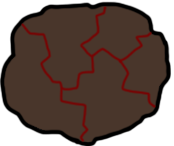
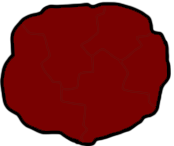
Unflickered boulders in level 1

diff --git a/Layers/BHJXLevel1Scene.m b/Layers/BHJXLevel1Scene.m
@@ -30,7 +30,6 @@ static NSString* playerCategoryName = @"player";
   
     NSArray *_playerFlickerFrames;
     NSArray *_backgroundFlickerFrames;
-    NSArray *_boulderFlickerFrames;
     NSMutableArray *_boulders;
     int _nextBoulder;
     double _nextBoulderSpawn;
@@ -51,9 +50,6 @@ static NSString* playerCategoryName = @"player";
         NSMutableArray *bgFlickerFrames = [NSMutableArray array];
         SKTextureAtlas *bgAnimatedAtlas = [SKTextureAtlas atlasNamed:@"Volcano"];
         
-        NSMutableArray *boulderFlickerFrames = [NSMutableArray array];
-        SKTextureAtlas *boulderAnimatedAtlas = [SKTextureAtlas atlasNamed:@"Boulder"];
-        
         NSMutableArray *playerFlickerFrames = [NSMutableArray array];
         SKTextureAtlas *playerAnimatedAtlas = [SKTextureAtlas atlasNamed:@"Player"];
         
@@ -64,13 +60,9 @@ static NSString* playerCategoryName = @"player";
             textureName = [NSString stringWithFormat:@"Player%d", i];
             temp = [playerAnimatedAtlas textureNamed:textureName];
             [playerFlickerFrames addObject:temp];
-            textureName = [NSString stringWithFormat:@"Boulder%d", i];
-            temp = [boulderAnimatedAtlas textureNamed:textureName];
-            [boulderFlickerFrames addObject:temp];
         }
         _playerFlickerFrames = playerFlickerFrames;
         _backgroundFlickerFrames = bgFlickerFrames;
-        _boulderFlickerFrames = boulderFlickerFrames;
         
         SKTexture *temp = _backgroundFlickerFrames[0];
         
@@ -112,11 +104,10 @@ static NSString* playerCategoryName = @"player";
         _player.physicsBody.dynamic = NO;
         
         //Setup the boulders
-        temp = _boulderFlickerFrames[0];
         
         _boulders = [[NSMutableArray alloc] initWithCapacity:kNumBoulders];
         for (int i = 0; i < kNumBoulders; ++i) {
-            SKSpriteNode *boulder = [SKSpriteNode spriteNodeWithTexture:temp];
+            SKSpriteNode *boulder = [SKSpriteNode spriteNodeWithImageNamed:@"Boulder1.png"];
             boulder.hidden = YES;
             [boulder setXScale:0.5];
             [boulder setYScale:0.5];
@@ -308,6 +299,8 @@ static NSString* playerCategoryName = @"player";
   [_backgroundAudioPlayer play];
 }
 
+
+// Make the 
 -(void)flickering
 {
     //This is our general runAction method to make our player flicker.
@@ -326,14 +319,6 @@ static NSString* playerCategoryName = @"player";
                                               timePerFrame:0.1f
                                                     resize:NO
                                                    restore:YES]] withKey:@"flickeringInPlaceBackground"];
-    
-    for (int i=0; i<kNumBoulders; i++) {
-        [_boulders[i] runAction:[SKAction repeatActionForever:
-                                 [SKAction animateWithTextures:_boulderFlickerFrames
-                                                  timePerFrame:0.1f
-                                                        resize:NO
-                                                       restore:YES]] withKey:@"flickeringInPlaceBoulders"];
-    }
     
     return;
 }
